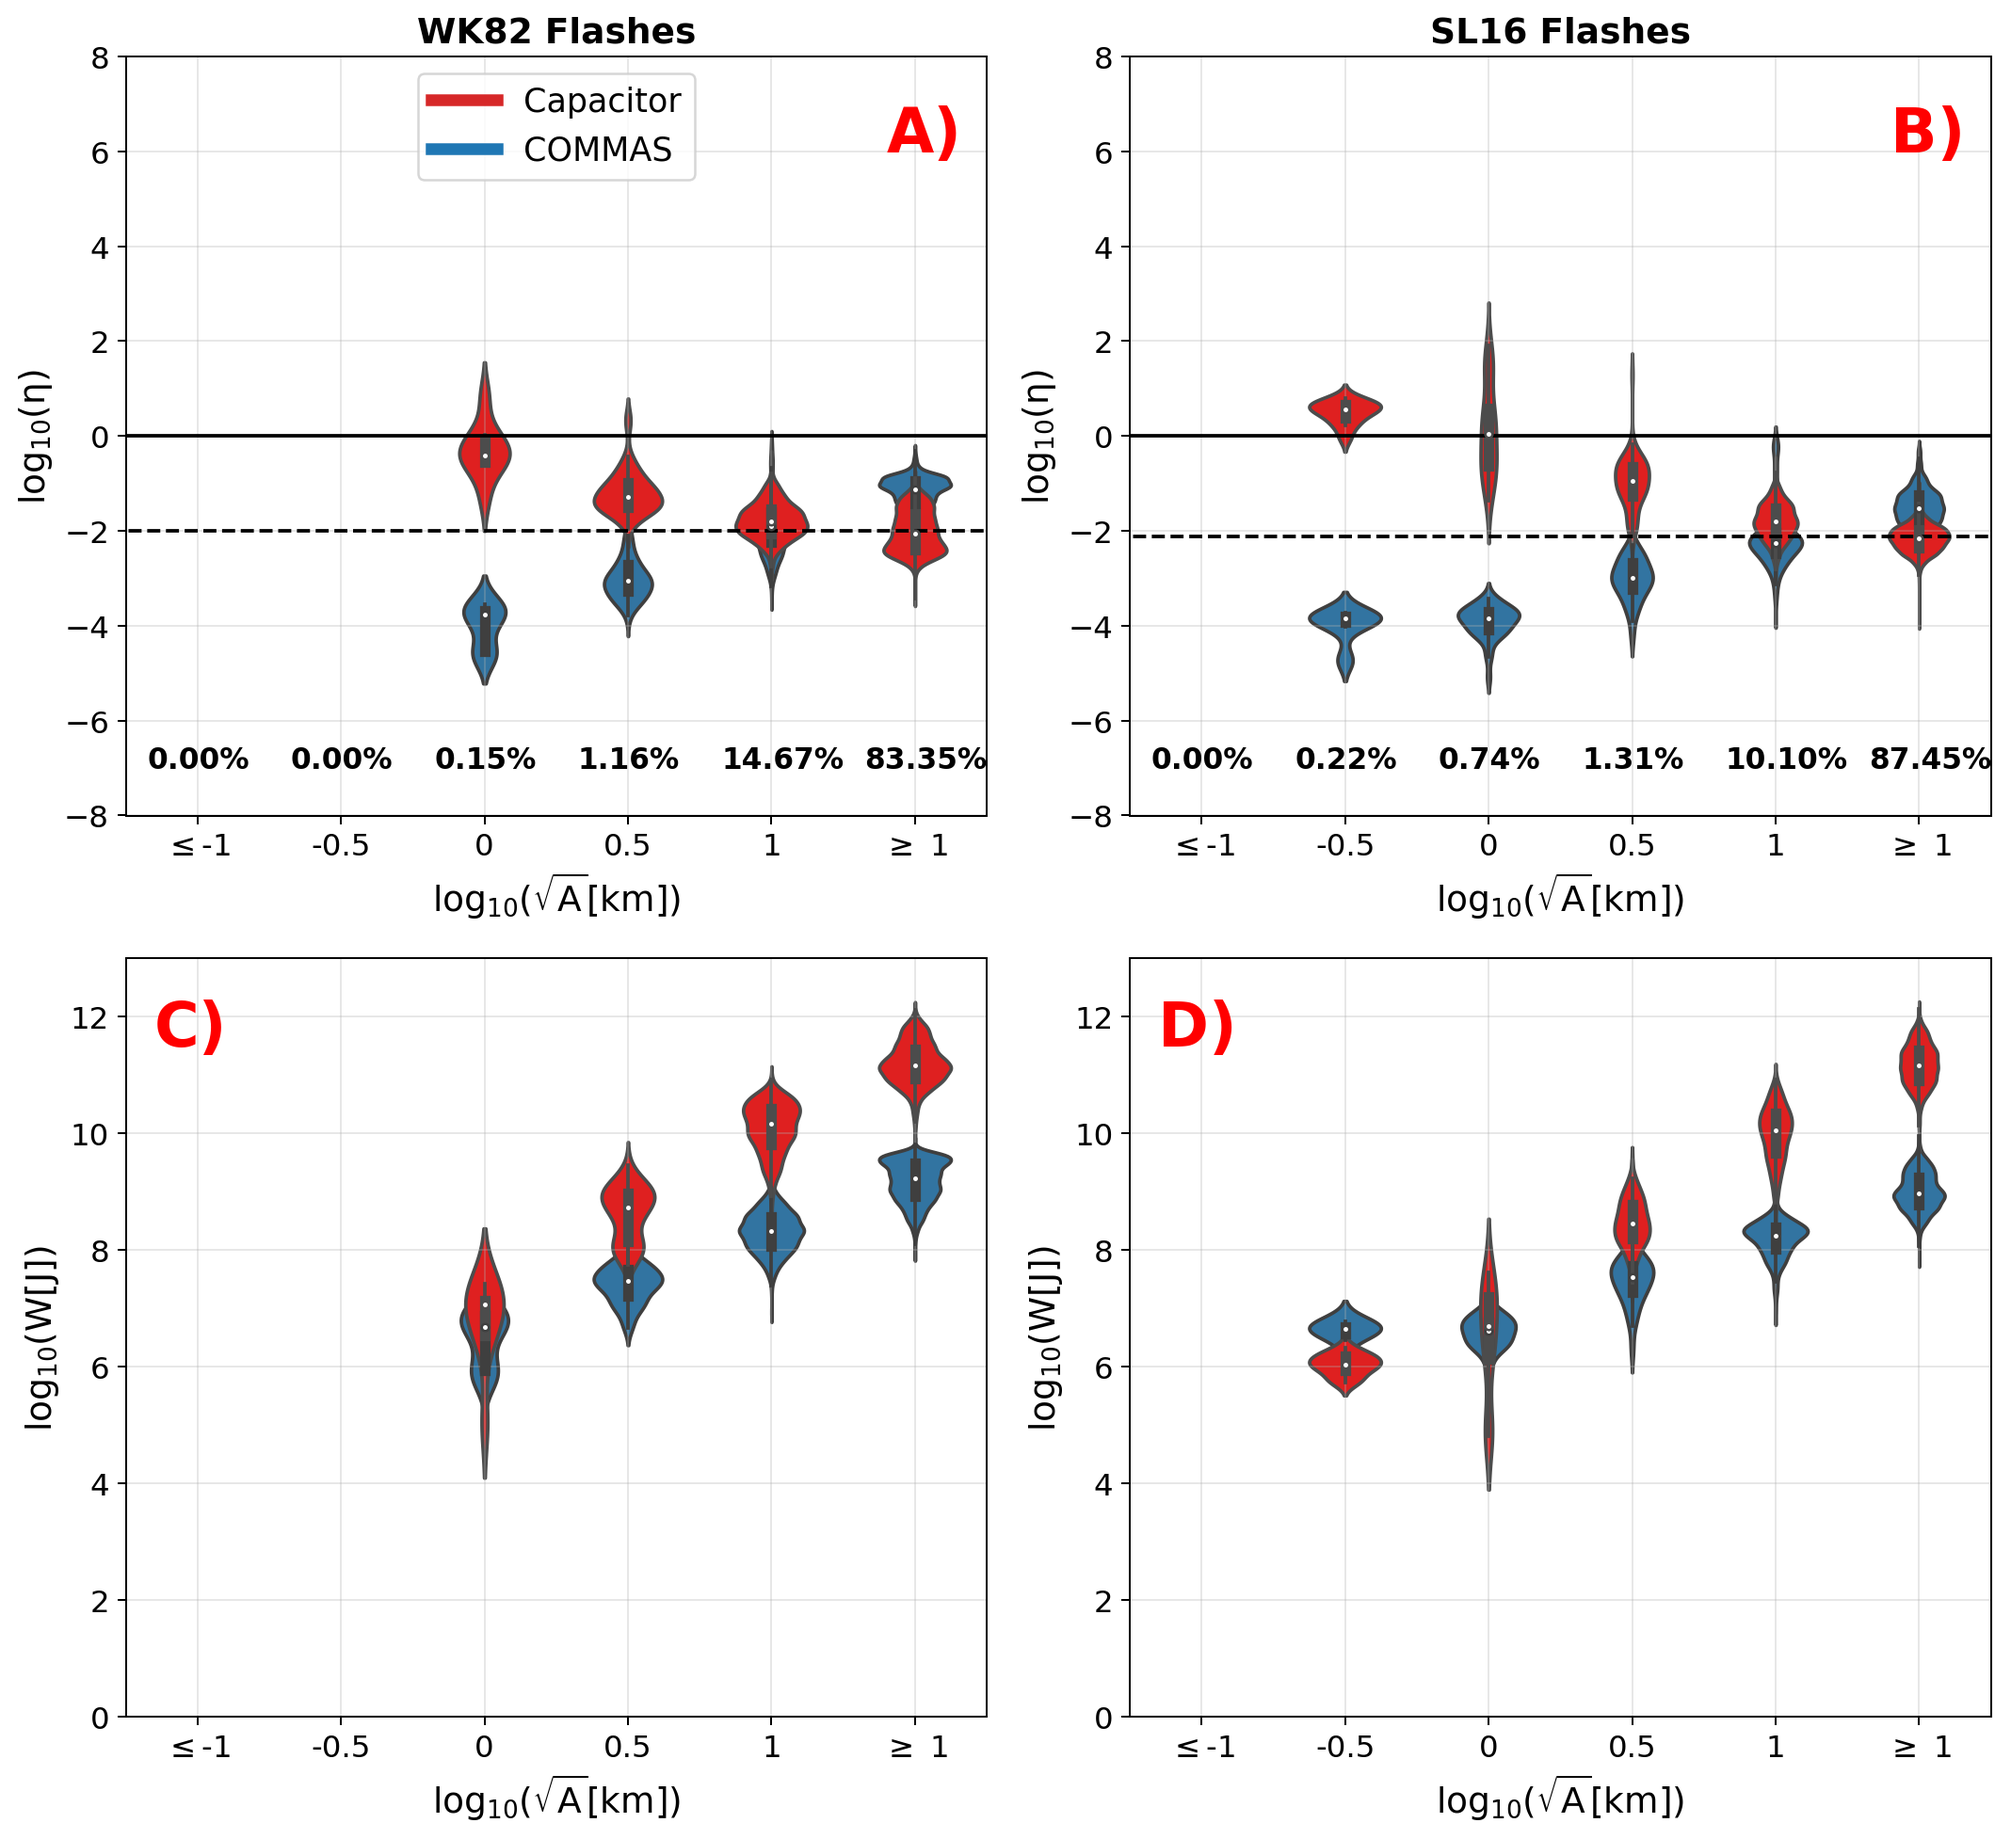
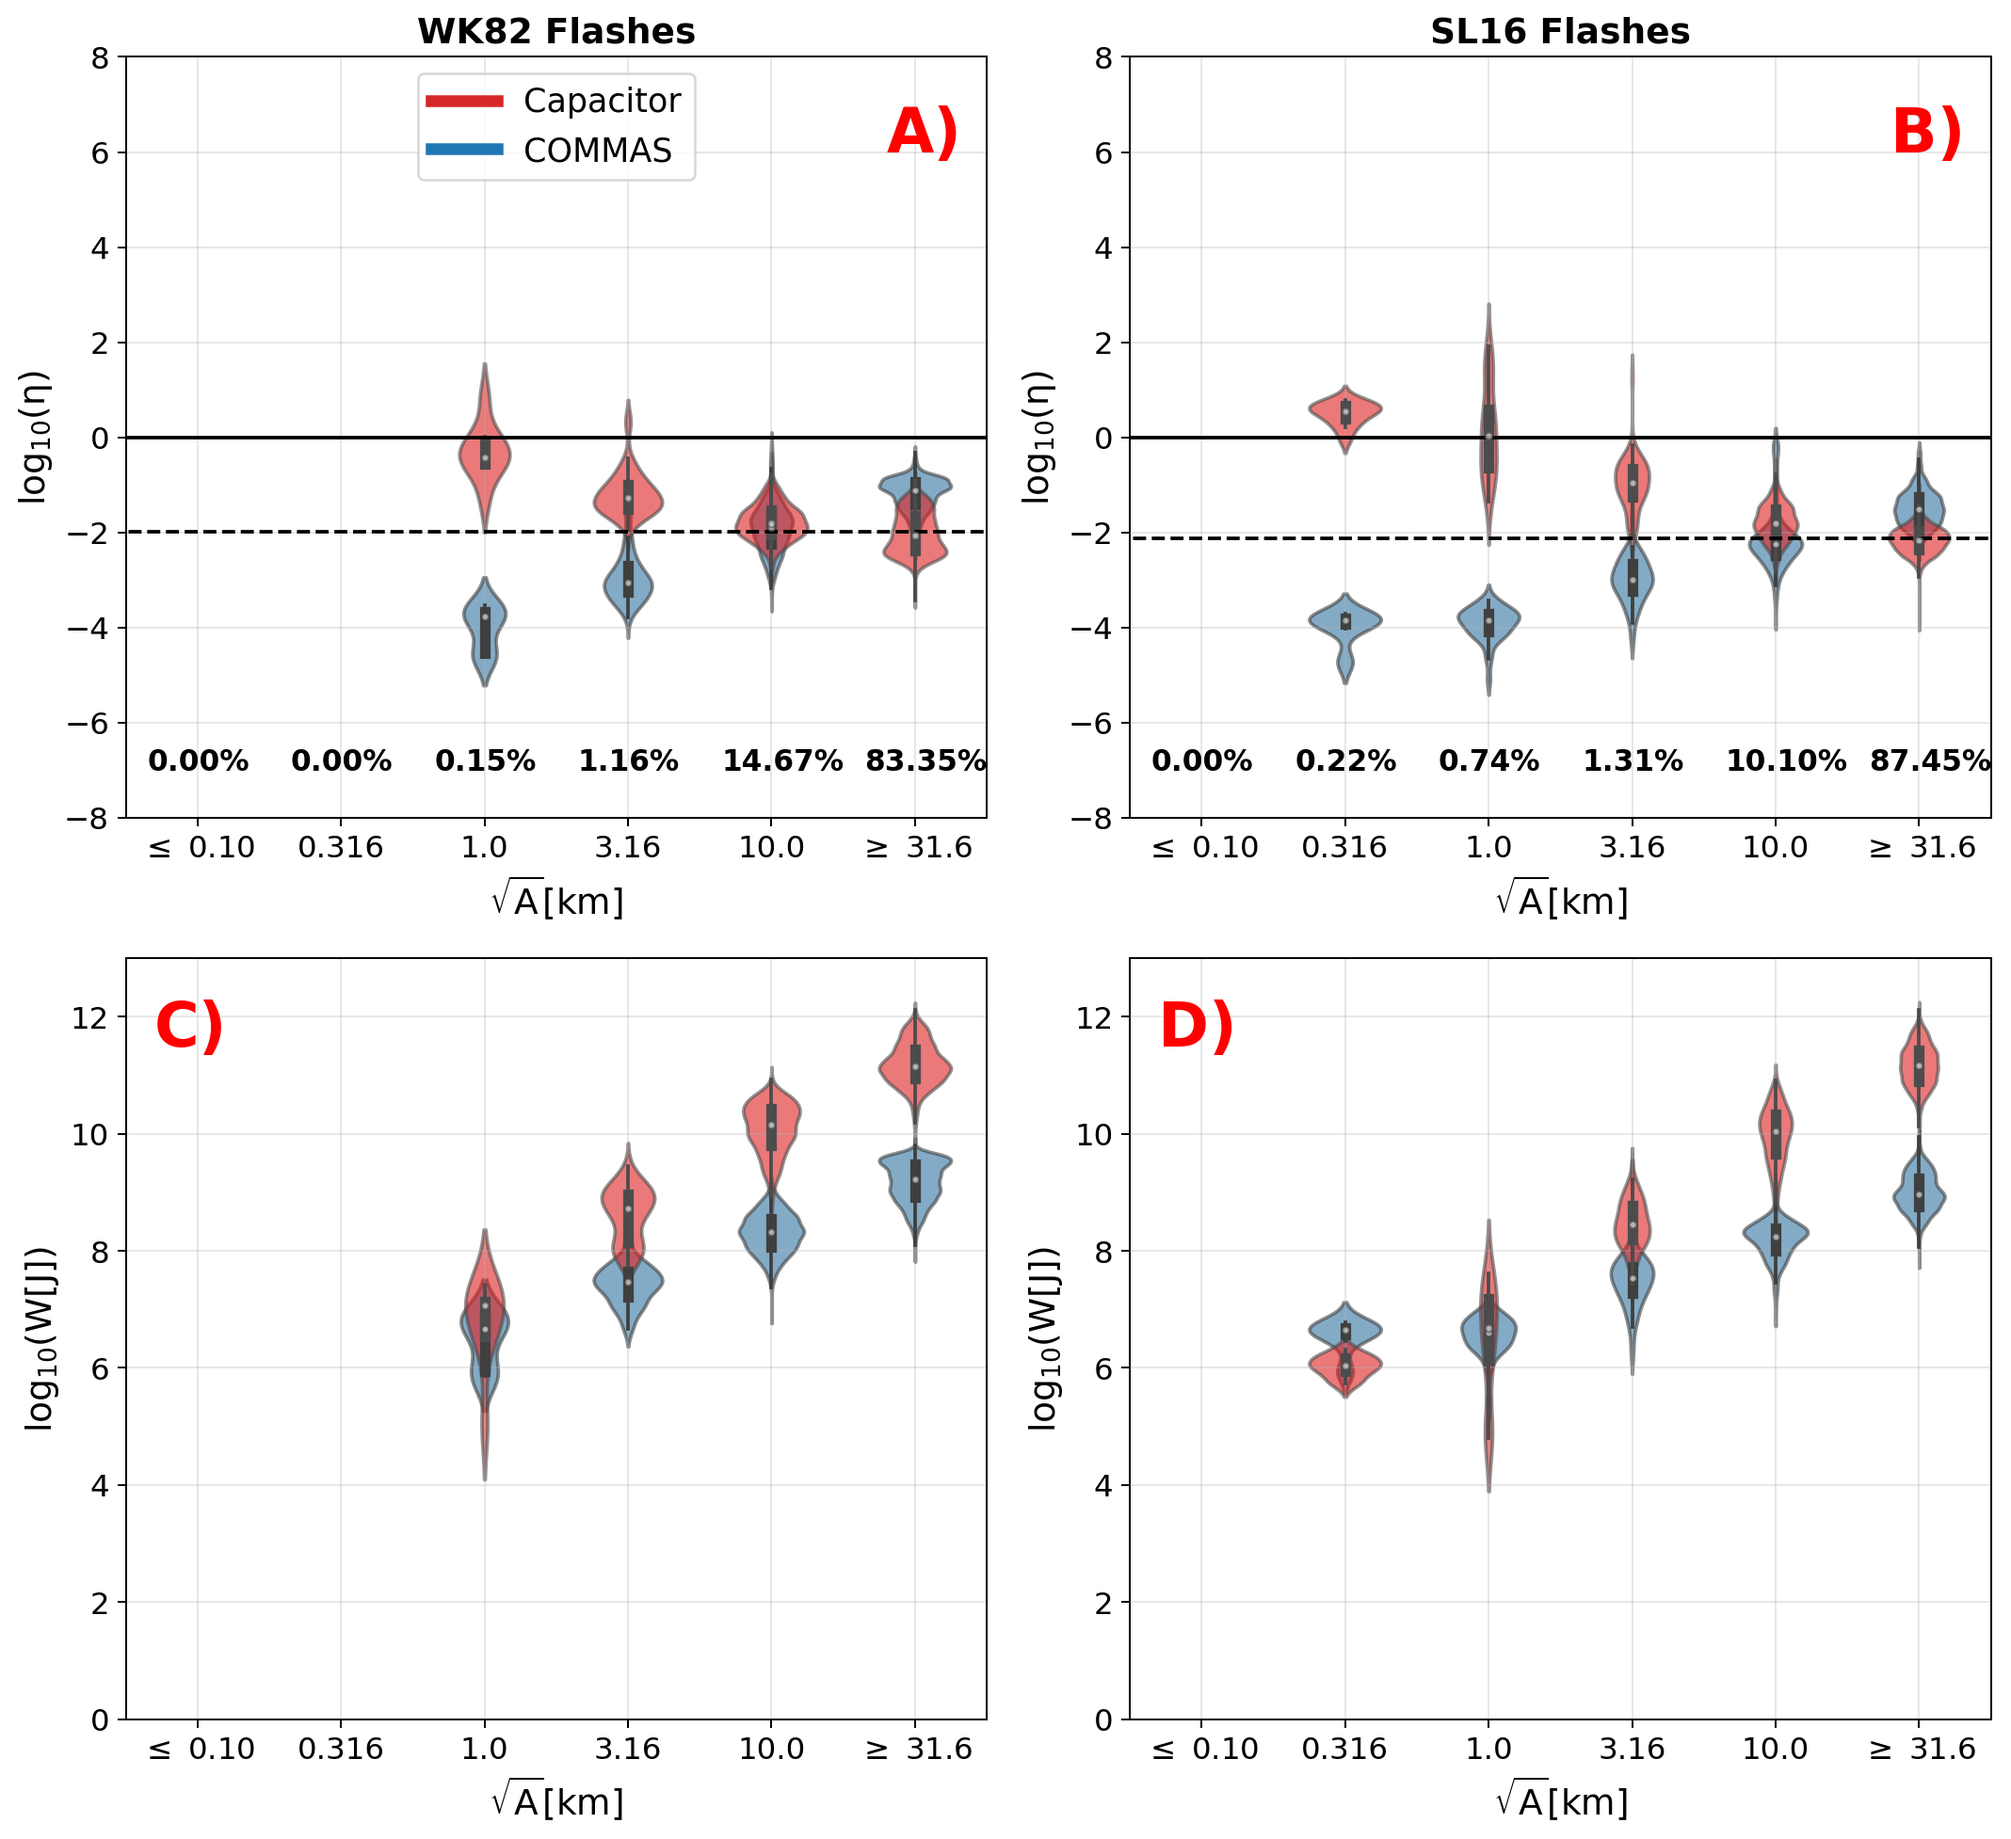
Changed violin plot axis labels to read as Lengths in km, and set alpha to overlapping voilins

diff --git a/EnergyPlotting.py b/EnergyPlotting.py
@@ -87,7 +87,7 @@ def box_bins(areas,values):
     v5   = (values[b5])
     
     df   = pd.DataFrame([v0,v1,v2,v3,v4,v5]).T
-    df.columns = [r'$\leq$-1', '-0.5', '0', '0.5', '1',r'$\geq$ 1']
+    df.columns = [r'$\leq$ 0.10', '0.316', '1.0', '3.16', '10.0',r'$\geq$ 31.6']
     
     
     frac0  = v0.shape[0]/values.shape[0]
@@ -236,7 +236,14 @@ def energy_compare(t_centers,commas_totals,commas_means,cap_totals,cap_means,adj
         plt.savefig('Figures/ENERGY_COMPARE.png',bbox_inches='tight')
     else:
         plt.savefig('Figures/ENERGY_COMPARE_ETA.png',bbox_inches='tight')
-        
+
+def violin_alpha(ax,alpha):
+    '''
+    Set alpha for violin plots using the axis collection of violin objects.
+    Seaborn currently doesn't have a keyword arguement to handle this.
+    '''
+    for violin in ax.collections:
+        violin.set_alpha(alpha)        
         
 def box_plots(sl_bins,wk_bins): #FIX
     '''
@@ -259,8 +266,8 @@ def box_plots(sl_bins,wk_bins): #FIX
     #ETA:
     #-------------------------------------------------------------------
     #COMMAS
-    sns.violinplot(np.log10(sl_com_eta),ax=ax[0,1],color='tab:blue',width=.5,boxprops=dict(alpha=.7),showfliers = False);
-    sns.violinplot(np.log10(wk_com_eta),ax=ax[0,0],color='tab:blue',width=.5,boxprops=dict(alpha=.7),showfliers = False);
+    v1com = sns.violinplot(np.log10(sl_com_eta),ax=ax[0,1],color='tab:blue',width=.5,boxprops=dict(alpha=.6),showfliers = False);
+    v2com = sns.violinplot(np.log10(wk_com_eta),ax=ax[0,0],color='tab:blue',width=.5,boxprops=dict(alpha=.6),showfliers = False);
 
     #Empty plots; use for legends
     dcom, = ax[0,0].plot([0,0],[0,0],color='tab:red',linewidth=5)
@@ -268,8 +275,16 @@ def box_plots(sl_bins,wk_bins): #FIX
     ax[0,0].legend([dcom,dcap],['Capacitor','COMMAS'],loc='upper center',fontsize=14)
     
     #Capacitor:
-    sns.violinplot(np.log10(sl_cap_eta),ax=ax[0,1],color='red',width=.5,boxprops=dict(alpha=.7),showfliers = False);
-    sns.violinplot(np.log10(wk_cap_eta),ax=ax[0,0],color='red',width=.5,boxprops=dict(alpha=.7),showfliers = False);
+    v1cap = sns.violinplot(np.log10(sl_cap_eta),ax=ax[0,1],color='red',width=.5,boxprops=dict(alpha=.6),showfliers = False);
+    v2cap = sns.violinplot(np.log10(wk_cap_eta),ax=ax[0,0],color='red',width=.5,boxprops=dict(alpha=.6),showfliers = False);
+    
+    alpha = 0.6
+    #Set violin alpha:
+    violin_alpha(v1com,alpha)
+    violin_alpha(v2com,alpha)
+    violin_alpha(v1cap,alpha)
+    violin_alpha(v2cap,alpha)
+    
     #Annotate fraction of flashes per length bin
     for i,(n) in enumerate(percents_wk):
         ax[0,0].annotate('{0:.2f}%'.format(n*100),xy=(bin_range[i]-.35,-7.),weight='bold',color='k',fontsize=12.5);
@@ -282,19 +297,24 @@ def box_plots(sl_bins,wk_bins): #FIX
     #Energy:
     #-------------------------------------------------------------------
     #COMMAS
-    sns.violinplot(np.log10(sl_len_com),ax=ax[1,1],color='tab:blue',width=.5,boxprops=dict(alpha=.7),showfliers = False);
-    sns.violinplot(np.log10(wk_len_com),ax=ax[1,0],color='tab:blue',width=.5,boxprops=dict(alpha=.7),showfliers = False);
+    e1com = sns.violinplot(np.log10(sl_len_com),ax=ax[1,1],color='tab:blue',width=.5,boxprops=dict(alpha=.6),showfliers = False);
+    e2com = sns.violinplot(np.log10(wk_len_com),ax=ax[1,0],color='tab:blue',width=.5,boxprops=dict(alpha=.6),showfliers = False);
     #Capacitor:
-    sns.violinplot(np.log10(sl_len_cap),ax=ax[1,1],color='red',width=.5,boxprops=dict(alpha=.7),showfliers = False);
-    sns.violinplot(np.log10(wk_len_cap),ax=ax[1,0],color='red',width=.5,boxprops=dict(alpha=.7),showfliers = False);
+    e1cap = sns.violinplot(np.log10(sl_len_cap),ax=ax[1,1],color='red',width=.5,boxprops=dict(alpha=.6),showfliers = False);
+    e2cap = sns.violinplot(np.log10(wk_len_cap),ax=ax[1,0],color='red',width=.5,boxprops=dict(alpha=.6),showfliers = False);
 
+    #Set violin alpha for energy
+    violin_alpha(e1com,alpha)
+    violin_alpha(e2com,alpha)
+    violin_alpha(e1cap,alpha)
+    violin_alpha(e2cap,alpha)
 
     [ax[0,j].set_ylim(-8,8) for j in range(2)]
     [ax[1,j].set_ylim(0,13) for j in range(2)]
 
     [ax[0,j].set_ylabel(r'$\rm log_{10}(\eta)$',fontsize=15)          for j in range(2)]
     [ax[1,j].set_ylabel(r'$\rm log_{10}(W [J])$',fontsize=15)         for j in range(2)]
-    [ax[i,j].set_xlabel(r'$\rm log_{10}(\sqrt{A} [km])$',fontsize=15) for i in range(2) for j in range(2)]
+    [ax[i,j].set_xlabel(r'$\rm \sqrt{A} [km]$',fontsize=15)           for i in range(2) for j in range(2)]
     [ax[i,j].tick_params(labelsize=13) for i in range(2)              for j in range(2)]
     [ax[i,j].grid(alpha=0.3) for i in range(2)                        for j in range(2)]
 
